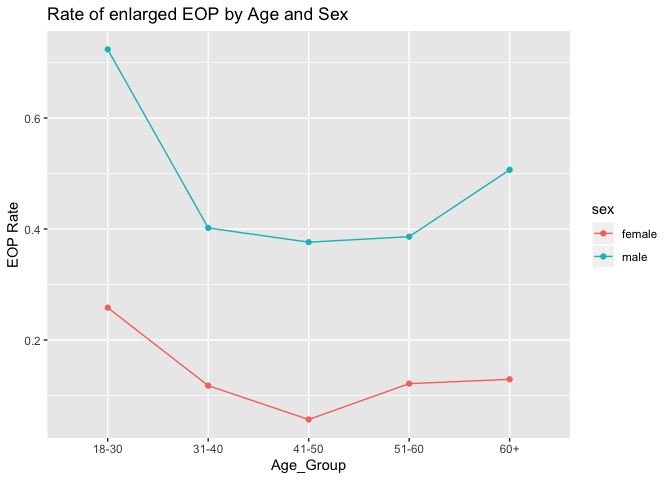
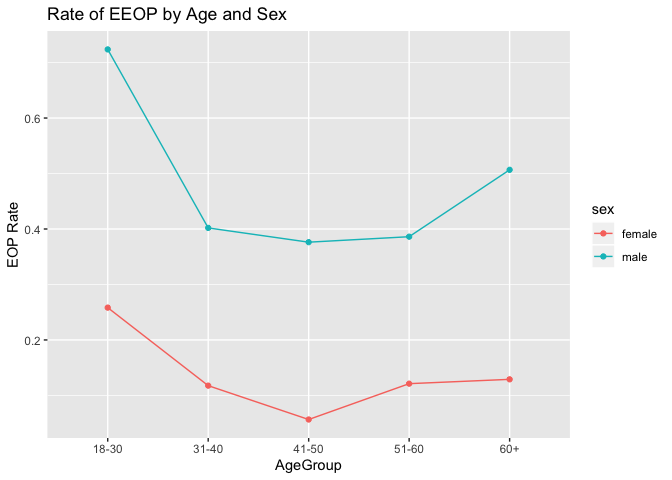
Actual final knit and commit.

Changed region(s): [[0.1562, 0.0, 0.5312, 0.0625], [0.4062, 0.9375, 0.5312, 1.0]]

diff --git a/p8105_midterm_mk4022.md b/p8105_midterm_mk4022.md
@@ -135,8 +135,8 @@ ggplot(aes(x = age_group, y = rate, group =sex, color = sex)) +
 geom_point () +
 geom_line () +
 labs(
-title = "Rate of enlarged EOP by Age and Sex",
-x = "Age_Group",
+title = "Rate of EEOP by Age and Sex",
+x = "AgeGroup",
 y = "EOP Rate")
 figure4
 ```
